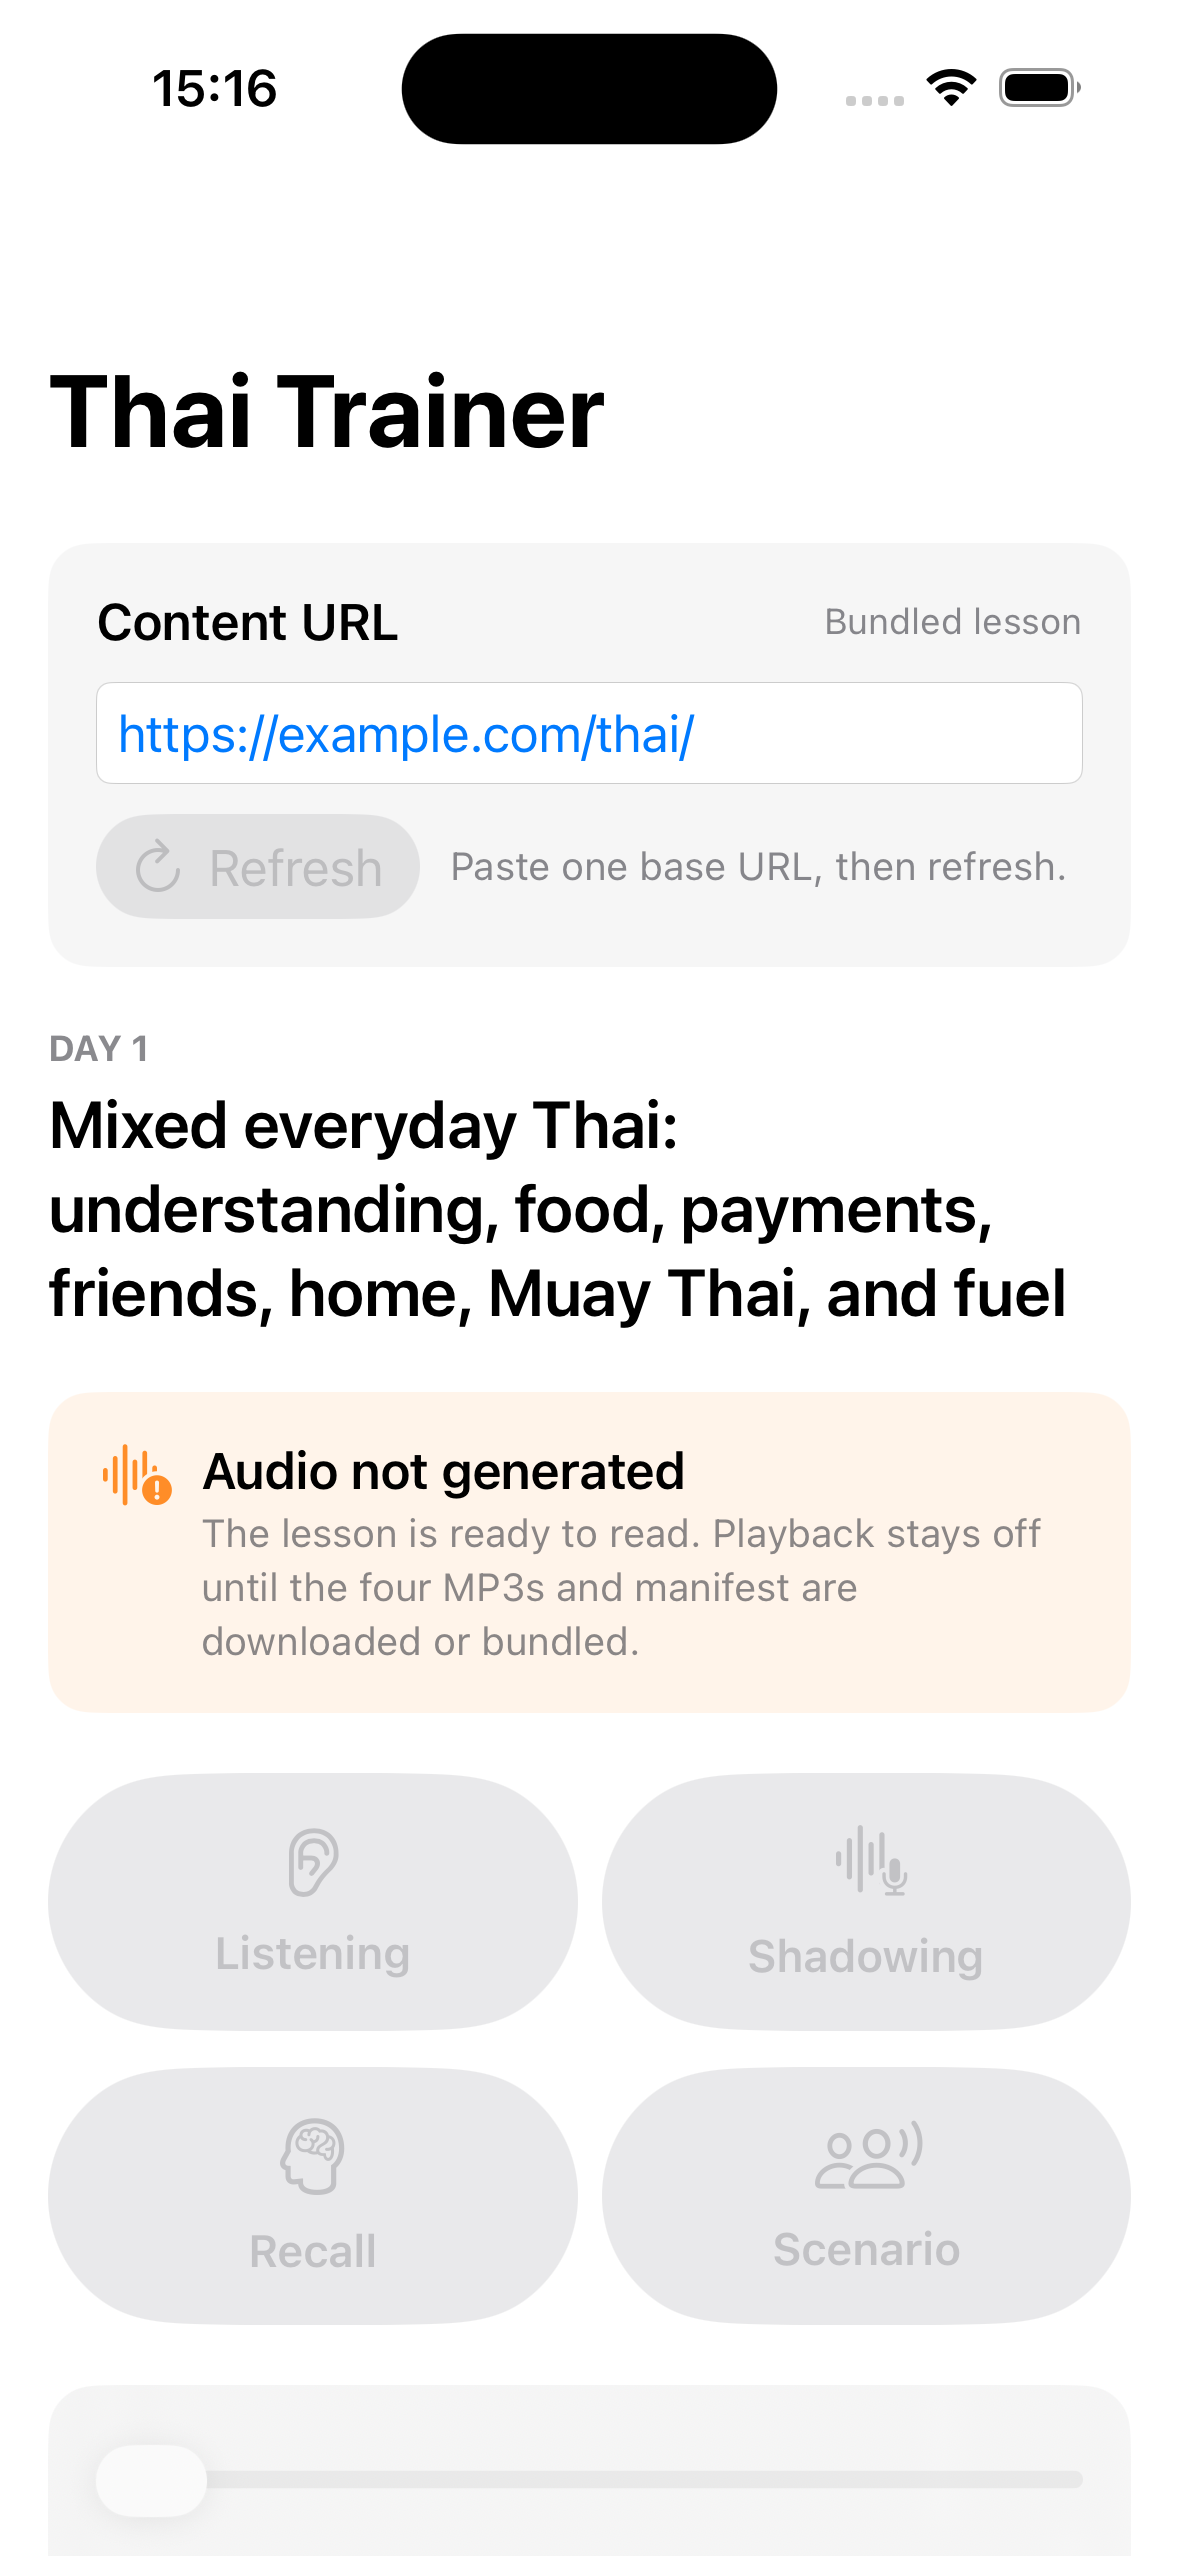
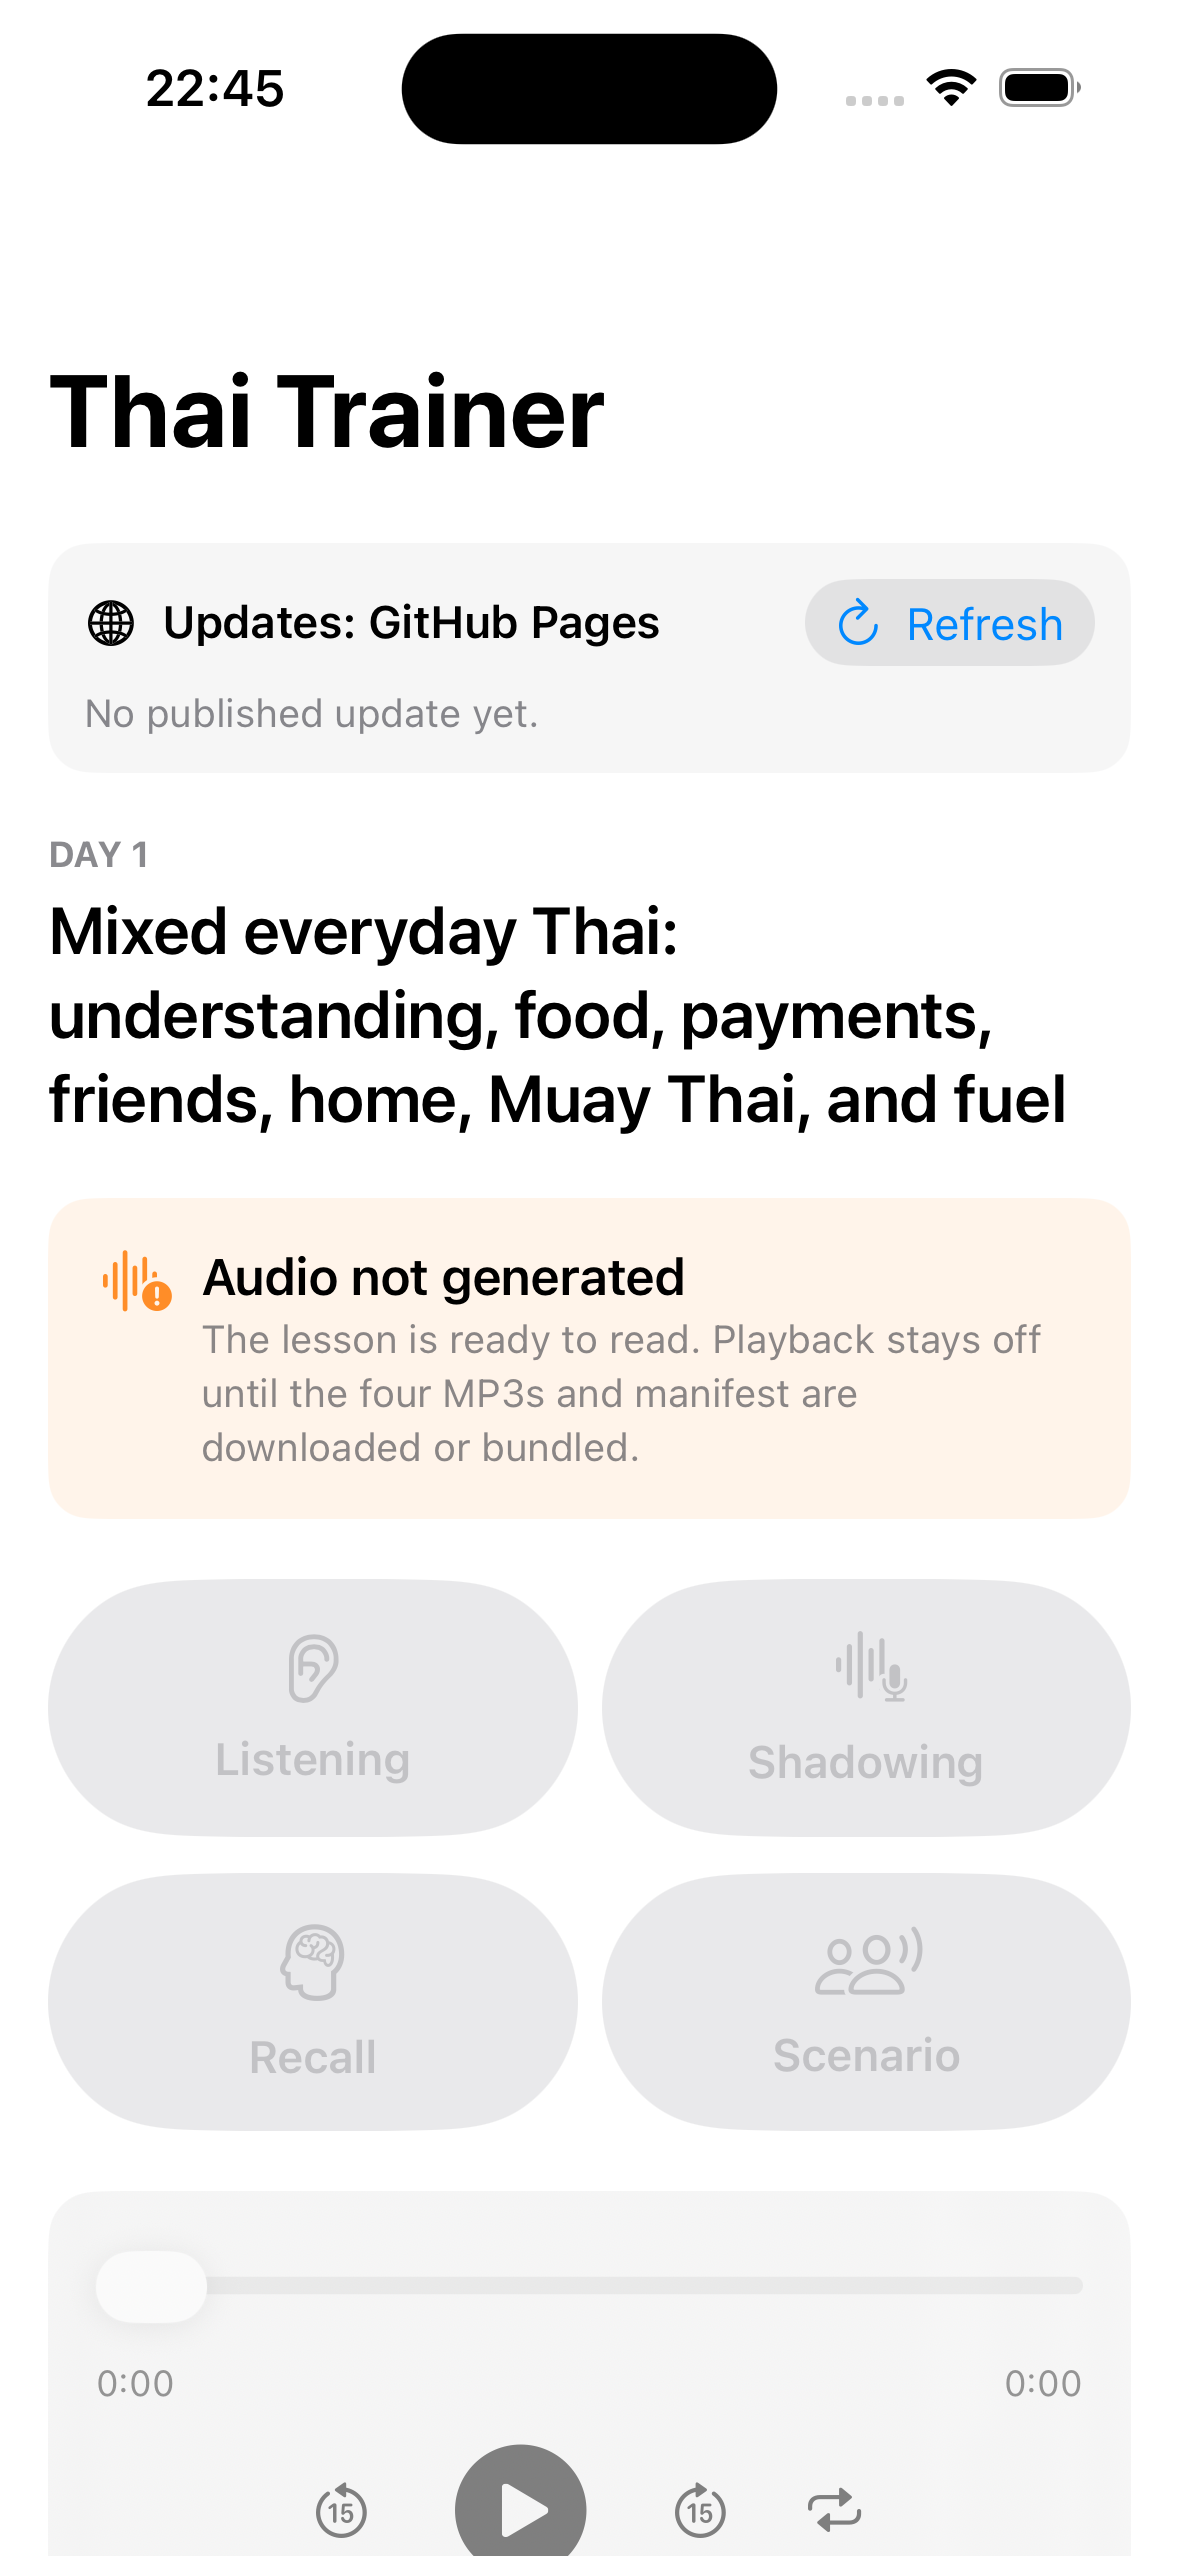
Record live Pages deployment

diff --git a/thai-learning-execution.md b/thai-learning-execution.md
@@ -3,9 +3,9 @@ schema_version: 1
 plan: thai-learning-plan.md
 instructions: none
 program_status: in_progress
-current_wave: public_delivery
-current_task: publish_github_pages_and_hardcode_url
-last_verified_commit: uncommitted
+current_wave: daily_review
+current_task: approve_day_001_text
+last_verified_commit: b0394162acaae1d8ece17845cc494ff9b4700299
 updated_at: 2026-09-03
 ---
 
@@ -31,27 +31,26 @@ updated_at: 2026-09-03
 | --- | --- | --- | --- | --- |
 | `foundation` | `implement_review_and_audio_gate` | complete | `thai-learning-plan.md`, `thai-learning-execution.md`, `thai-learning/**` | Schema, dry-run gate tests, and first safe written-review workflow are complete; scheduling remains separately pending |
 | `foundation` | `revise_first_pack_to_twenty_varied_sentences` | complete | `thai-learning-plan.md`, `thai-learning-execution.md`, `thai-learning/**` | First pack contains 20 cross-checked, varied sentences; contracts and no-network tests pass |
-| `daily_review` | `approve_day_001_text` | blocked | `thai-learning/days/day-001.json`, `thai-learning/state.json` | User approves or edits every core and dialogue item; approval hash is recorded |
+| `daily_review` | `approve_day_001_text` | in_progress | `thai-learning/days/day-001.json`, `thai-learning/state.json` | User approves or edits every core and dialogue item; approval hash is recorded |
 | `offline_player` | `scaffold_offline_ios_player` | complete | `thai-learning/ios/**`, `thai-learning/audio/generated/**`, `thai-learning-plan.md`, `thai-learning-execution.md` | SwiftUI app and test target compile; app bundle contains Day 1; source scan finds no credential or network path |
 | `offline_player` | `verify_offline_ios_player_runtime` | complete | `thai-learning/ios/**`, `thai-learning-execution.md` | Focused XCTest passed in an iOS simulator and screenshots confirm the 20-item list plus fail-closed missing-audio state |
 | `remote_delivery` | `implement_static_audio_delivery` | complete | `thai-learning/ios/**`, `thai-learning/publish/**`, `thai-learning-plan.md`, `thai-learning-execution.md` | One base URL downloads and verifies `latest.json` plus a 20-sentence/four-track pack, retains one last-good offline cache, and the immutable publisher builds the static folder without contacting TTS |
-| `public_delivery` | `publish_github_pages_and_hardcode_url` | in_progress | repository metadata, `docs/**`, `thai-learning/ios/**`, `thai-learning/publish/**`, plan, ledger, local automation | Public repo and Pages URL exist, app uses the built-in URL, authorized publish is one command, and the 11:00 job prepares text without audio generation or charges |
+| `public_delivery` | `publish_github_pages_and_hardcode_url` | complete | repository metadata, `docs/**`, `thai-learning/ios/**`, `thai-learning/publish/**`, plan, ledger, local automation | Public repo and Pages URL exist, app uses the built-in URL, authorized publish is one command, and the 11:00 job prepares text without audio generation or charges |
 | `audio_enablement` | `configure_and_generate_day_001_audio` | not_started | `thai-learning/audio/**`, `thai-learning/days/day-001.json` | Separate paid-request authorization exists and approved-hash audio verifies |
 | `weekly_integration` | `run_week_001_review` | not_started | `thai-learning/state.json`, future day manifests | Recall and recognition scores are recorded and next week is adapted |
 
 ## Current Checkpoint
 
-- Objective: make the personal app zero-configuration by publishing the workspace and
-  static Pages root, hardcoding its URL, and scheduling safe daily written preparation
-- In scope: initialize/commit/push the explicitly authorized public Git repository,
-  Pages content, built-in app URL/automatic refresh, safe publish helper, and local
-  11:00 written-review heartbeat
-- Out of scope: approving sentences on the user's behalf, generating real lesson
-  speech, authorizing a paid request, storing credentials, or App Store distribution
-- Files owned: repository metadata, `docs/**`, `thai-learning/ios/**`,
-  `thai-learning/publish/**`, plan, ledger, and the new local automation
-- Last observed repository state: directory is not a Git repository; existing research
-  files are protected and unchanged
+- Objective: collect the user's written decisions for all 20 Day 1 sentences before
+  any real lesson speech is generated
+- In scope: approve, edit, replace, or reject the written Day 1 pack and record an
+  immutable approval receipt for the exact final revision/hash
+- Out of scope: generating speech or authorizing a paid request until the user gives
+  the required separate authorization
+- Files owned: `thai-learning/days/day-001.json`, `thai-learning/state.json`, future
+  approval receipt, and `thai-learning-execution.md`
+- Last observed repository state: clean public Git repository on `main`, tracking
+  `origin/main` at `justame/thai-trainer`; local third-party research remains ignored
 - Build artifacts: durable/reusable sources and Xcode project live under
   `thai-learning/ios/**`; disposable build cache lives at
   `/private/tmp/ThaiTrainerDerivedData` and may be regenerated or removed later
@@ -72,7 +71,7 @@ updated_at: 2026-09-03
 - Status: complete
 - RED command and observed failure: not_applicable; focused XCTest was added with the
   new player
-- GREEN command and observed result: simulator tests passed 3/3, covering the exact
+- GREEN command and observed result: simulator tests passed 4/4, covering the exact
   Python/Swift canonical hash vector, 20-item bundled pack, public-feed integrity,
   fresh-index request policy, atomic cache preservation, pruning, playback decoding,
   and invalid-cache fallback
@@ -82,7 +81,7 @@ updated_at: 2026-09-03
 | Command | Result | Source revision | Recorded at |
 | --- | --- | --- | --- |
 | `python3 -m unittest discover -s thai-learning/tests -v` | PASS: 8 tests | uncommitted | 2026-09-03 |
-| `python3 -m unittest discover -s thai-learning/publish/tests -v` | PASS: 6 tests; immutable/idempotent publish, conflict preservation, and interrupted-build cleanup | uncommitted | 2026-09-03 |
+| `python3 -m unittest discover -s thai-learning/publish/tests -v` | PASS: 10 tests; immutable/idempotent publish, conflict preservation, interrupted-build cleanup, and Pages wrapper safety | `b039416` working tree | 2026-09-03 |
 | `jq` structural summary of `thai-learning/days/day-001.json` | PASS: revision 2; 20 pending sentences; nine categories; maximum category count 4 | uncommitted | 2026-09-03 |
[1 lines of base64/hex data omitted]
 | `python3 /Users/yaronn/.codex/skills/plan-continuity/scripts/validate_execution_ledger.py thai-learning-execution.md` | PASS after checkpoint update | uncommitted | 2026-09-03 |
@@ -94,6 +93,12 @@ updated_at: 2026-09-03
 | generic iOS simulator build | PASS: final `BUILD SUCCEEDED` after integrity and cache fixes | uncommitted | 2026-09-03 |
 | real simulator launch and screenshot capture | PASS: refreshed one-URL UI captured as `thai-learning/ios/screenshots/thai-trainer-static-url.png` | uncommitted | 2026-09-03 |
 | independent static-delivery audit | PASS: no blockers after hash binding, immutable publish, fresh-index, fallback, pruning, and playback-fixture fixes | uncommitted | 2026-09-03 |
+| final iOS zero-configuration build/test | PASS: built-in `https://justame.github.io/thai-trainer/`, automatic one-shot refresh, manual retry, and all 4 simulator tests | `b039416` working tree | 2026-09-03 |
+| public repository push | PASS: public `justame/thai-trainer`, `main` pushed at `b0394162acaae1d8ece17845cc494ff9b4700299` | `b039416` | 2026-09-03 |
+| GitHub Pages deployment | PASS: `https://justame.github.io/thai-trainer/` returned HTTP 200; expected pre-audio `latest.json` returned HTTP 404 | `b039416` | 2026-09-03 |
+| daily local heartbeat | PASS: active automation `daily-thai-lesson-review` at 11:00; prompt explicitly prohibits audio/TTS/payment/push | external scheduler | 2026-09-03 |
+| final secret scan | PASS: no high-confidence credential/private-key/embedded-password matches; sensitive file patterns ignored; third-party transcript kept local | `b039416` working tree | 2026-09-03 |
+| independent public-delivery audit | PASS: live repo/Pages, hardcoded iOS URL and neutral 404 fallback, publisher isolation, 18/18 Python tests, 4/4 simulator tests, secret scan, and pre-audio gate all verified with no blockers | `b039416` working tree | 2026-09-03 |
 
 ## Decisions and Blockers
 
@@ -110,15 +115,17 @@ updated_at: 2026-09-03
 - Approved external actions: on 2026-09-03 the user explicitly authorized creating a
   Git repository and pushing it; selected target is public `justame/thai-trainer` with
   GitHub Pages at `https://justame.github.io/thai-trainer/`.
+- Public delivery result: repo and Pages are live; the app URL is compiled in and the
+  editable URL field is removed. Full locally extracted YouTube captions remain local
+  and ignored rather than being republished.
 
 ## Next Action
 
-- Action: scan for secrets, initialize and push `justame/thai-trainer`, enable Pages,
-  wire the hardcoded default/automatic refresh, add the safe publish helper and local
-  daily written-review heartbeat, then verify the live URL and simulator build
-- Owned paths: repository metadata, `docs/**`, `thai-learning/ios/**`,
-  `thai-learning/publish/**`, plan, ledger, and local automation
-- Verification command: `python3 -m unittest discover -s thai-learning/publish/tests -v`
+- Action: show the current 20 written Day 1 items and collect explicit approve/edit/
+  replace/reject decisions; do not generate real lesson audio yet
+- Owned paths: `thai-learning/days/day-001.json`, `thai-learning/state.json`, future
+  approval receipt, and `thai-learning-execution.md`
+- Verification command: `python3 thai-learning/audio/generate_audio.py thai-learning/days/day-001.json --dry-run`
 
 ## Handoff
 
